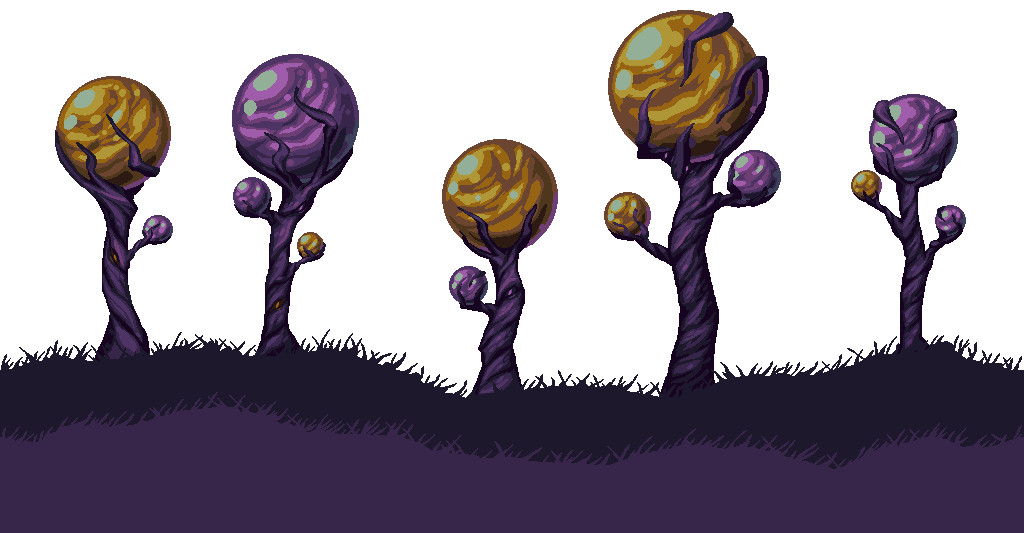
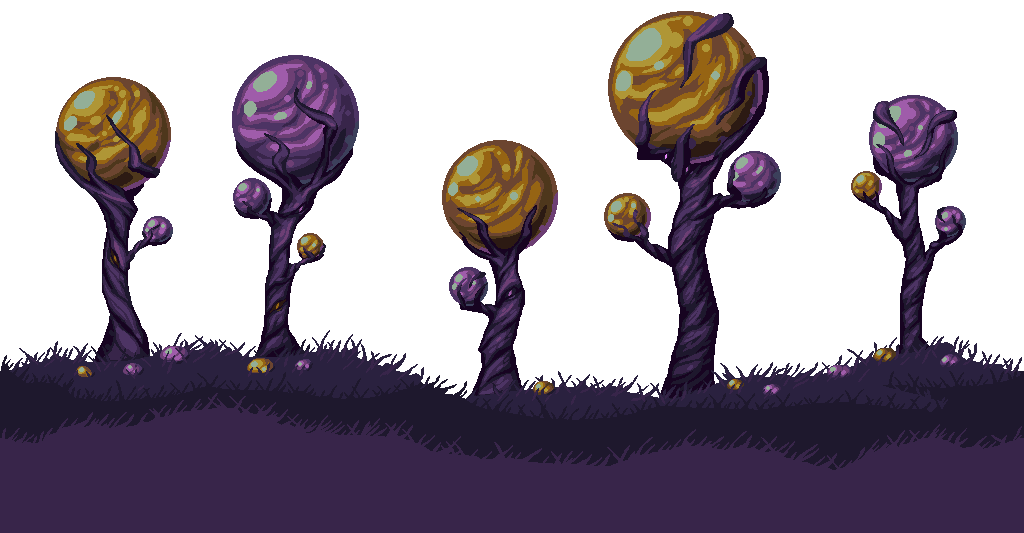
bg, yharcar, glowmasks

diff --git a/CalValEX.cs b/CalValEX.cs
@@ -388,6 +388,8 @@ namespace CalValEX
                     new List<int> { ModContent.ItemType<XMLightningHook>() });
                 bossChecklist.Call("AddToBossCollection", "CalamityMod", "Exo Mechs",
                     new List<int> { ModContent.ItemType<DraedonBody>(), ModContent.ItemType<DraedonLegs>(), ModContent.ItemType<DraedonPlush>(), ModContent.ItemType<AresPlush>(), ModContent.ItemType<ApolloPlush>(), ModContent.ItemType<ArtemisPlush>(), ModContent.ItemType<ThanatosPlush>(), ModContent.ItemType<AncientAuricTeslaHelm>(), ModContent.ItemType<ArtemisBalloonSmall>(), ModContent.ItemType<ApolloBalloonSmall>(), ModContent.ItemType<Items.Equips.Shirts.AresChestplate.AresChestplate>() });
+                bossChecklist.Call("AddToBossLoot", "CalamityMod", "Adult Eidolon Wyrm",
+                    new List<int> { ModContent.ItemType<RespirationShrine>()});
                 bossChecklist.Call("AddToBossCollection", "CalamityMod", "Adult Eidolon Wyrm",
                     new List<int> { ModContent.ItemType<JaredPlush>(), ModContent.ItemType<SoulShard>(), ModContent.ItemType<OmegaBlue>() });
                 bossChecklist.Call("AddToBossCollection", "CalamityMod", "Acid Rain (Post-AS)",
@@ -403,7 +405,7 @@ namespace CalValEX
                     new List<int>
                     {
                         ModContent.ItemType<MawHook>(), ModContent.ItemType<FlakHeadCrab>(),
-                        ModContent.ItemType<SkaterEgg>(), ModContent.ItemType<Help>(), ModContent.ItemType<Items.Mounts.Ground.RadJuice>(),
+                        ModContent.ItemType<SkaterEgg>(), ModContent.ItemType<Help>(), ModContent.ItemType<Items.Mounts.Ground.RadJuice>(), ModContent.ItemType<Items.Equips.Legs.TerrorLegs>(),
                         ModContent.ItemType<TrilobiteShield>(),
                         ModContent.ItemType<GammaHelmet>()
                     });
@@ -585,11 +587,12 @@ namespace CalValEX
             if (catalyst != null)
             {
                 catalyst.Call("itemset_superbossrarity_set", ModContent.ItemType<AstrageldonPlush>(), true);
-                catalyst.Call("itemset_superbossrarity_set", ModContent.ItemType<Items.Plushies.AstrageldonPlushThrowable>(), true);
+                catalyst.Call("itemset_superbossrarity_set", ModContent.ItemType<AstrageldonPlushThrowable>(), true);
                 catalyst.Call("itemset_superbossrarity_set", ModContent.ItemType<JellyBottle>(), true);
                 catalyst.Call("itemset_superbossrarity_set", ModContent.ItemType<JaredPlush>(), true);
                 catalyst.Call("itemset_superbossrarity_set", ModContent.ItemType<JaredPlushThrowable>(), true);
                 catalyst.Call("itemset_superbossrarity_set", ModContent.ItemType<RespirationShrine>(), true);
+                catalyst.Call("itemset_superbossrarity_set", ModContent.ItemType<SoulShard>(), true);
             }
             Mod calamityMod = ModLoader.GetMod("CalamityMod");
             //Irradiated

diff --git a/CalValEXPlayer.cs b/CalValEXPlayer.cs
@@ -292,6 +292,7 @@ namespace CalValEX
         public bool Blok;
         public bool ZoneAstral;
         public bool ZoneLab;
+        public bool ZoneMockDungeon;
         public bool aesthetic;
         public bool exorb;
         public bool rockhat;
@@ -1074,15 +1075,22 @@ namespace CalValEX
         {
             ZoneAstral = CalValEXWorld.astralTiles > 400;
             HellLab = CalValEXWorld.hellTiles > 50;
+            ZoneMockDungeon = CalValEXWorld.dungeontiles > 100;
             ZoneLab = CalValEXWorld.labTiles > 100;
         }
 
         public override bool CustomBiomesMatch(Player other)
         {
             CalValEXPlayer modOther = other.GetModPlayer<CalValEXPlayer>();
-            return ZoneAstral == modOther.ZoneAstral;
-            return HellLab == modOther.HellLab;
-            return ZoneLab = modOther.ZoneLab;
+            if (modOther.ZoneAstral)
+                return ZoneAstral;
+            if (modOther.HellLab)
+                return HellLab;
+            if (modOther.ZoneLab)
+                return ZoneLab;
+            if (modOther.ZoneMockDungeon)
+                return ZoneMockDungeon;
+            return true;
         }
 
         public override void CopyCustomBiomesTo(Player other)
@@ -1091,6 +1099,7 @@ namespace CalValEX
             modOther.ZoneAstral = ZoneAstral;
             modOther.HellLab = HellLab;
             modOther.ZoneLab = ZoneLab;
+            modOther.ZoneMockDungeon = ZoneMockDungeon;
         }
 
         public override void SendCustomBiomes(BinaryWriter writer)
@@ -1099,6 +1108,7 @@ namespace CalValEX
             flags[0] = ZoneAstral;
             flags[1] = HellLab;
             flags[2] = ZoneLab;
+            flags[3] = ZoneMockDungeon;
             writer.Write(flags);
         }
 
@@ -1177,6 +1187,7 @@ namespace CalValEX
             BitsByte flags = reader.ReadByte();
             ZoneAstral = flags[0];
             HellLab = flags[1];
+            ZoneMockDungeon = flags[3];
         }
 
         public override void clientClone(ModPlayer clientClone)

diff --git a/CalValEXGlobalTile.cs b/CalValEXGlobalTile.cs
@@ -4,13 +4,13 @@ using System.Collections.Generic;
 using Terraria;
 using Terraria.ID;
 using Terraria.ModLoader;
+using Terraria.ObjectData;
 
 namespace CalValEX
 {
 	public class CalValEXGlobalTile : GlobalTile
     {
         public static void TileGlowmask(int i, int j, Texture2D text, SpriteBatch sprit)
-        //ModContent.GetTexture("CalValEX/Tiles/MiscFurniture/SchematicDisplayPlaced_Glow")
         {
             int xFrameOffset = Main.tile[i, j].frameX;
             int yFrameOffset = Main.tile[i, j].frameY;
@@ -23,6 +23,33 @@ namespace CalValEX
                 sprit.Draw(glowmask, drawPosition, new Rectangle(xFrameOffset, yFrameOffset, 16, 16), drawColour, 0.0f, Vector2.Zero, 1f, SpriteEffects.None, 0.0f);
             else if (trackTile.halfBrick())
                 sprit.Draw(glowmask, drawPosition + new Vector2(0f, 8f), new Rectangle(xFrameOffset, yFrameOffset, 16, 8), drawColour, 0.0f, Vector2.Zero, 1f, SpriteEffects.None, 0.0f);
+        }
+
+        public static void ChestGlowmask(int i, int j, Texture2D text, SpriteBatch sprit)
+        {
+            Tile tile = Main.tile[i, j];
+            int left = i;
+            int top = j;
+            if (tile.frameX % 36 != 0)
+            {
+                left--;
+            }
+            if (tile.frameY != 0)
+            {
+                top--;
+            }
+            int chestI = Chest.FindChest(left, top);
+            Chest chest = Main.chest[chestI];
+            int cFrame = chest.frame;
+            Texture2D glowmask = text;
+            Rectangle frame = new Rectangle(tile.frameX, 38 * cFrame + tile.frameY, 16, 16);
+            Vector2 zero = new Vector2(Main.offScreenRange, Main.offScreenRange);
+            if (Main.drawToScreen)
+            {
+                zero = Vector2.Zero;
+            }
+            Vector2 pos = new Vector2(i * 16 - (int)Main.screenPosition.X, j * 16 - (int)Main.screenPosition.Y) + zero;
+            sprit.Draw(glowmask, pos, frame, Color.White, 0f, Vector2.Zero, 1f, SpriteEffects.None, 0f);
         }
     }
 }

diff --git a/Items/Mounts/Ground/YharimCar.cs b/Items/Mounts/Ground/YharimCar.cs
@@ -21,7 +21,7 @@ namespace CalValEX.Items.Mounts.Ground
             mountData.acceleration = 0.4f;
             mountData.jumpSpeed = 3f;
             mountData.blockExtraJumps = false;
-            mountData.totalFrames = 4;
+            mountData.totalFrames = 7;
             mountData.constantJump = true;
             Mod calamityMod = ModLoader.GetMod("CalamityMod");
             mountData.spawnDust = calamityMod.DustType("HolyFireDust");
@@ -35,12 +35,12 @@ namespace CalValEX.Items.Mounts.Ground
             mountData.bodyFrame = 3;
             mountData.yOffset = 12;
             mountData.playerHeadOffset = 0;
-            mountData.standingFrameCount = 4;
+            mountData.standingFrameCount = 1;
             mountData.standingFrameDelay = 12;
             mountData.standingFrameStart = 0;
-            mountData.runningFrameCount = 4;
+            mountData.runningFrameCount = 6;
             mountData.runningFrameDelay = 12;
-            mountData.runningFrameStart = 0;
+            mountData.runningFrameStart = 1;
             // mountData.runningFrameCount = 4;
             // mountData.runningFrameDelay = 65;
             // mountData.runningFrameStart = 4;
@@ -54,8 +54,8 @@ namespace CalValEX.Items.Mounts.Ground
             mountData.flyingFrameStart = 0;
             mountData.inAirFrameCount = 1;
             mountData.inAirFrameDelay = 12;
-            mountData.inAirFrameStart = 0;
-            mountData.idleFrameCount = 4;
+            mountData.inAirFrameStart = 5;
+            mountData.idleFrameCount = 1;
             mountData.idleFrameDelay = 12;
             mountData.idleFrameStart = 0;
             mountData.idleFrameLoop = true;

diff --git a/Tiles/FurnitureSets/Auric/AuricChest.cs b/Tiles/FurnitureSets/Auric/AuricChest.cs
@@ -44,29 +44,7 @@ namespace CalValEX.Tiles.FurnitureSets.Auric
         }
         public override void PostDraw(int i, int j, SpriteBatch spriteBatch)
         {
-            Tile tile = Main.tile[i, j];
-            int left = i;
-            int top = j;
-            if (tile.frameX % 36 != 0)
-            {
-                left--;
-            }
-            if (tile.frameY != 0)
-            {
-                top--;
-            }
-            int chestI = Chest.FindChest(left, top);
-            Chest chest = Main.chest[chestI];
-            int cFrame = chest.frame;
-            Texture2D glowmask = ModContent.GetTexture("CalValEX/Tiles/FurnitureSets/Auric/AuricChest_Glow");
-            Rectangle frame = new Rectangle(tile.frameX, 38 * cFrame + tile.frameY, 16, 16);
-            Vector2 zero = new Vector2(Main.offScreenRange, Main.offScreenRange);
-            if (Main.drawToScreen)
-            {
-                zero = Vector2.Zero;
-            }
-            Vector2 pos = new Vector2(i * 16 - (int)Main.screenPosition.X, j * 16 - (int)Main.screenPosition.Y) + zero;
-            Main.spriteBatch.Draw(glowmask, pos, frame, Color.White, 0f, Vector2.Zero, 1f, SpriteEffects.None, 0f);
+            CalValEXGlobalTile.ChestGlowmask(i, j, ModContent.GetTexture("CalValEX/Tiles/FurnitureSets/Auric/AuricChest_Glow"), spriteBatch);
         }
 
         public override ushort GetMapOption(int i, int j) => (ushort)(Main.tile[i, j].frameX / 36);

diff --git a/Projectiles/Pets/Junko.cs b/Projectiles/Pets/Junko.cs
@@ -3,6 +3,7 @@ using Terraria.ID;
 using Terraria.ModLoader;
 using Microsoft.Xna.Framework.Graphics;
 using Microsoft.Xna.Framework;
+using System.IO;
 
 namespace CalValEX.Projectiles.Pets
 {
@@ -272,6 +273,33 @@ namespace CalValEX.Projectiles.Pets
                 projectile.spriteDirection == -1 ? SpriteEffects.FlipHorizontally : SpriteEffects.None,
                 0f
             );
+        }
+
+        public override void SafeSendExtraAI(BinaryWriter writer)
+        {
+            writer.Write(sigcounter);
+            writer.Write(basetime);
+            writer.Write(sigdirection);
+            writer.Write(sigposx);
+            writer.Write(sigposy);
+            writer.Write(signut);
+            writer.Write(dust);
+            writer.Write(sound);
+            writer.Write(teleported);
+            writer.Write(finished);
+        }
+        public override void SafeReceiveExtraAI(BinaryReader reader)
+        {
+            signut = reader.ReadBoolean();
+            dust = reader.ReadBoolean();
+            sound = reader.ReadBoolean();
+            teleported = reader.ReadBoolean();
+            finished = reader.ReadBoolean();
+            sigcounter = reader.ReadInt32();
+            basetime = reader.ReadInt32();
+            sigdirection = reader.ReadInt32();
+            sigposx = reader.ReadInt32();
+            sigposy = reader.ReadInt32();
         }
     }
 }

diff --git a/Projectiles/AstralSolutionProj.cs b/Projectiles/AstralSolutionProj.cs
@@ -82,7 +82,7 @@ namespace CalValEX.Projectiles
 						Mod CalValEX = ModLoader.GetMod("CalamityMod");
 
 						//Stone
-						if (TileID.Sets.Conversion.Stone[type]) {
+						if (TileID.Sets.Conversion.Stone[type] || type == TileID.BlueMoss || type == TileID.BrownMoss || type == TileID.LavaMoss || type == TileID.GreenMoss || type == TileID.PurpleMoss || type == TileID.LongMoss || type == TileID.RedMoss) {
 							Main.tile[k, l].type = (ushort)ModContent.TileType<XenostonePlaced>();
 							WorldGen.SquareTileFrame(k, l, true);
 							NetMessage.SendTileSquare(-1, k, l, 1);
@@ -224,7 +224,7 @@ namespace CalValEX.Projectiles
 							WorldGen.SquareWallFrame(k, l, true);
 							NetMessage.SendTileSquare(-1, k, l, 1);
 						}
-						else if (WallID.Sets.Conversion.Stone[wall])
+						else if (WallID.Sets.Conversion.Stone[wall] || wall == WallID.RocksUnsafe1 || wall == WallID.RocksUnsafe2 || wall == WallID.RocksUnsafe3 || wall == WallID.RocksUnsafe4 || wall == WallID.CaveWall || wall == WallID.CaveWall2 || wall == WallID.CaveUnsafe || wall == WallID.Cave2Unsafe || wall == WallID.Cave3Unsafe || wall == WallID.Cave4Unsafe || wall == WallID.Cave5Unsafe || wall == WallID.Cave6Unsafe || wall == WallID.Cave7Unsafe || wall == WallID.Cave8Unsafe)
 						{
 							Main.tile[k, l].wall = (ushort)ModContent.WallType<XenostoneWallPlaced>();
 							WorldGen.SquareWallFrame(k, l, true);

diff --git a/CalValEXWorld.cs b/CalValEXWorld.cs
@@ -17,6 +17,8 @@ namespace CalValEX
 
         public static int labTiles;
 
+        public static int dungeontiles;
+
         public static bool rescuedjelly;
 
         public static bool jharim;
@@ -151,6 +153,7 @@ namespace CalValEX
             astralTiles = 0;
             hellTiles = 0;
             labTiles = 0;
+            dungeontiles = 0;
         }
 
         public override void TileCountsAvailable(int[] tileCounts)
@@ -162,6 +165,8 @@ namespace CalValEX
             hellTiles = tileCounts[calamityMod.TileType("Chaosplate")];
             // Lab tiles
             labTiles = tileCounts[calamityMod.TileType("LaboratoryPlating")] + tileCounts[calamityMod.TileType("LaboratoryPanels")] + tileCounts[calamityMod.TileType("RustedPlating")] + tileCounts[calamityMod.TileType("LaboratoryPipePlating")] + tileCounts[calamityMod.TileType("RustedPipes")];
+            //Dungeon tiles
+            dungeontiles = tileCounts[TileID.BlueDungeonBrick] + tileCounts[TileID.PinkDungeonBrick] + tileCounts[TileID.GreenDungeonBrick];
         }
 
         public static void UpdateWorldBool()

diff --git a/NPCs/JellyPriest/JellyPriestNPC.cs b/NPCs/JellyPriest/JellyPriestNPC.cs
@@ -16,6 +16,7 @@ using Terraria.ID;
 using Terraria.ModLoader;
 using static Terraria.ModLoader.ModContent;
 using CalValEX.Projectiles.NPCs;
+using System.IO;
 
 namespace CalValEX.NPCs.JellyPriest
 {
@@ -582,6 +583,22 @@ namespace CalValEX.NPCs.JellyPriest
                 Gore.NewGore(npc.position, npc.velocity, mod.GetGoreSlot("Gores/JellyPriest2"), 1f);
                 Gore.NewGore(npc.position, npc.velocity, mod.GetGoreSlot("Gores/JellyPriest3"), 1f);
             }
+        }
+        public override void SendExtraAI(BinaryWriter writer)
+        {
+            writer.Write(shoptype);
+            writer.Write(shop1);
+            writer.Write(shop2);
+            writer.Write(shop3);
+            writer.Write(twue);
+        }
+        public override void ReceiveExtraAI(BinaryReader reader)
+        {
+            shop1 = reader.ReadBoolean();
+            shop2 = reader.ReadBoolean();
+            shop3 = reader.ReadBoolean();
+            twue = reader.ReadBoolean();
+            shoptype = reader.ReadInt32();
         }
     }
 }

diff --git a/Drops.cs b/Drops.cs
@@ -206,7 +206,7 @@ namespace CalValEX
                         ++nextSlot;
                     }
 
-                    if (Main.LocalPlayer.ZoneDungeon)
+                    if (Main.LocalPlayer.ZoneDungeon || Main.LocalPlayer.GetModPlayer<CalValEXPlayer>().ZoneMockDungeon)
                     {
                         shop.item[nextSlot].SetDefaults(ModContent.ItemType<PolterMask>());
                         shop.item[nextSlot].shopCustomPrice = Item.buyPrice(0, 3);
@@ -1839,7 +1839,11 @@ namespace CalValEX
                 {
                     if (player.ZoneOverworldHeight)
                     {
-                        pool.Add(cata.NPCType("AstrageldonSlime"), 0.02f);
+                        pool.Add(cata.NPCType("AstrageldonSlime"), 0.002f);
+                        if ((bool)cata.Call("worlddefeats.astrageldon"))
+                        {
+                            pool.Add(cata.NPCType("ArmoredAstralSlime"), 0.02f);
+                        }
                     }
                 }
 

diff --git a/Tiles/AstralBlocks/AstralGrassPlaced.cs b/Tiles/AstralBlocks/AstralGrassPlaced.cs
@@ -49,19 +49,22 @@ namespace CalValEX.Tiles.AstralBlocks
             if (Main.rand.Next(7) == 0)
             {
                 int grassspawned;
+                int pos;
                 int choice = Main.rand.Next(2);
                 if (choice == 0)
                 {
                     grassspawned = mod.TileType("AstralTallGrass");
+                    pos = 2;
                 }
                 else
                 {
                     grassspawned = mod.TileType("AstralShortGrass");
+                    pos = 1;
                 }
 
                 if (!Main.tile[i, j - 1].active() && Main.tileSolid[Main.tile[i, j + 1].type] && Main.tile[i, j].slope() == 0 && !Main.tile[i, j].halfBrick())
                 {
-                    WorldGen.PlaceTile(i, j - 1, grassspawned, true, false, -1, Main.rand.Next(18));
+                    WorldGen.PlaceTile(i, j - pos, grassspawned, true, false, -1, Main.rand.Next(18));
                 }
 
                 int LocationX = i;

diff --git a/Tiles/Plants/EidolonTreePlaced.cs b/Tiles/Plants/EidolonTreePlaced.cs
@@ -4,6 +4,7 @@ using Terraria.ID;
 using Terraria.ModLoader;
 using Terraria.ObjectData;
 using static Terraria.ModLoader.ModContent;
+using Microsoft.Xna.Framework.Graphics;
 using CalValEX.Items.Tiles.Plants;
 
 namespace CalValEX.Tiles.Plants
@@ -22,6 +23,11 @@ namespace CalValEX.Tiles.Plants
             TileObjectData.newTile.CoordinateHeights = new int[] { 16, 16, 16, 16, 16, 16, 16, 16 }; //
             TileObjectData.newTile.Origin = new Point16(0, 6);
             TileObjectData.addTile(Type);
+        }
+
+        public override void PostDraw(int i, int j, SpriteBatch spriteBatch)
+        {
+            CalValEXGlobalTile.TileGlowmask(i, j, ModContent.GetTexture("CalValEX/Tiles/Plants/EidolonTreePlaced_Glow"), spriteBatch);
         }
 
         public override void KillMultiTile(int i, int j, int frameX, int frameY)
